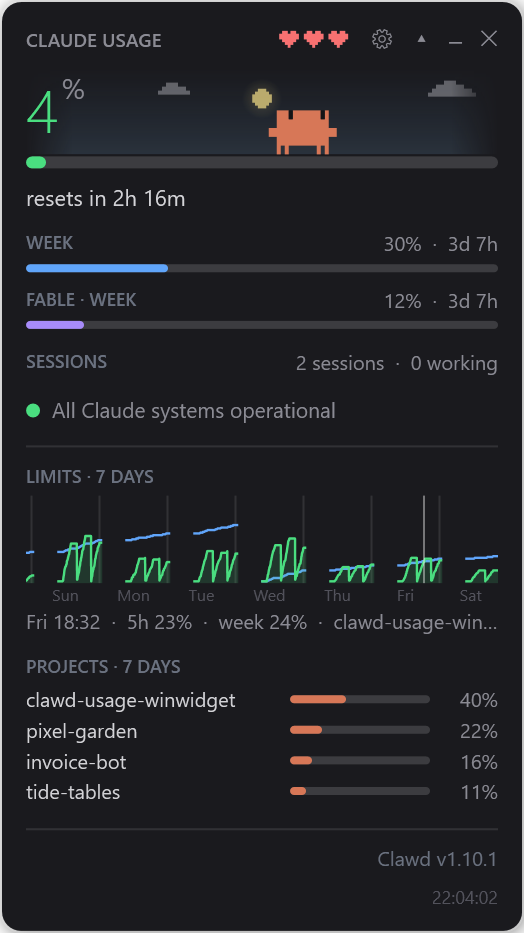
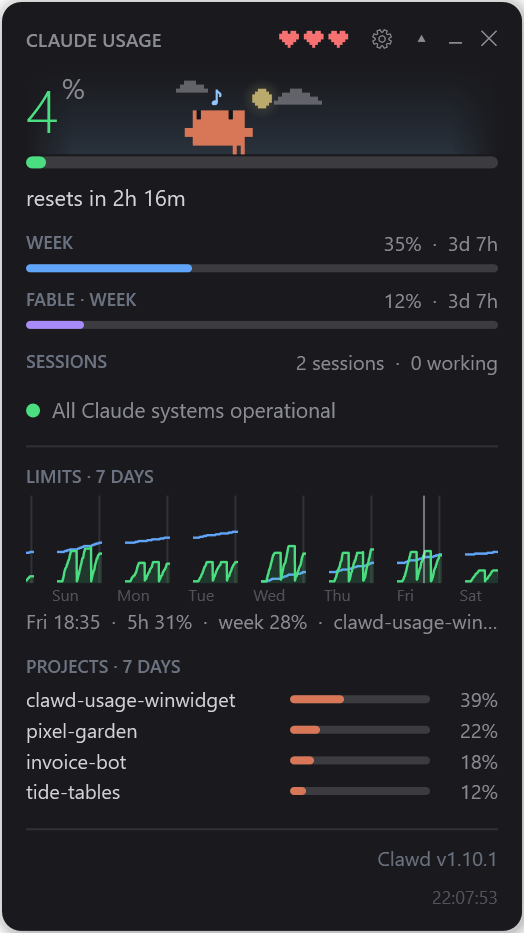
Preview redrawn from fake data, next to the history screenshot at the top of the README
tools/history-shot.ps1 becomes tools/screenshot.ps1 preview|history.

diff --git a/README.md b/README.md
@@ -19,7 +19,10 @@ are doing.
   when a session works, waves when a session is waiting for you, sweats near the
   limit and lies belly-up when it's used up.
 
-<img src="docs/preview.png" alt="Widget with details expanded" width="354">
+<table><tr>
+<td><img src="docs/preview.png" alt="Details expanded: limits, sessions, the /usage stats and the Claude Code version" width="354"></td>
+<td><img src="docs/history.png" alt="Details with the 7-day limits chart, its hover caption and the top projects" width="354"></td>
+</tr></table>
 
 ## Install
 
@@ -99,9 +102,6 @@ The ▾ in the header expands details (remembered between runs):
   folder they ran in. Counted from Claude Code's transcripts on this computer:
   tokens weighted by the model's price, so the shares are an estimate of what
   went into the limits, not an official figure.
-
-  <img src="docs/history.png" alt="The 7-day limits chart with the hover caption and the top projects" width="354">
-
 - **Version** — your Claude Code version. If a newer one is out the line turns
   yellow: hover for the official CHANGELOG between your version and the latest,
   click to run `claude update` in a separate window; otherwise a click opens
